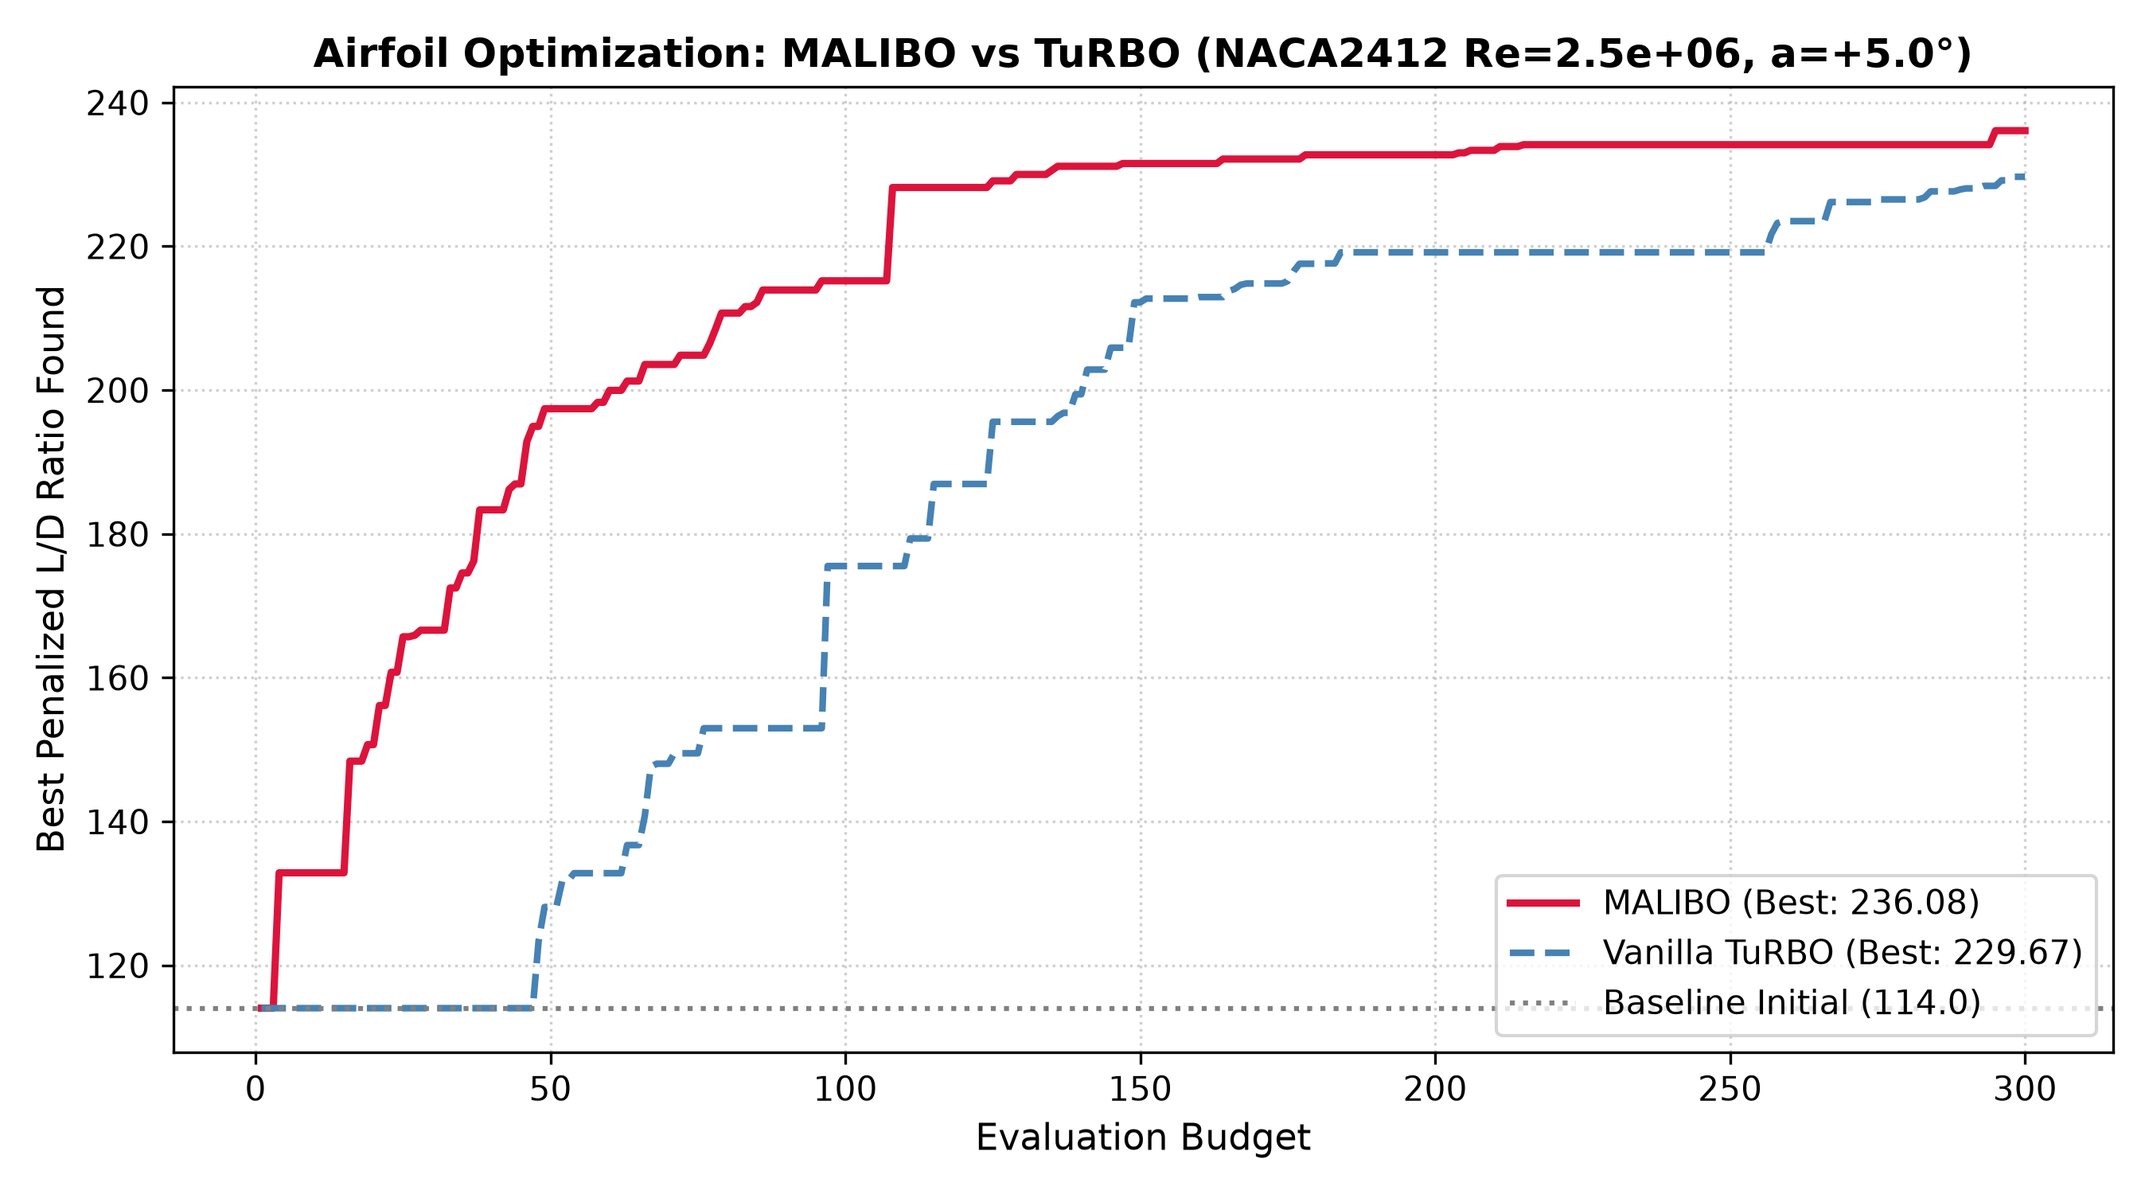
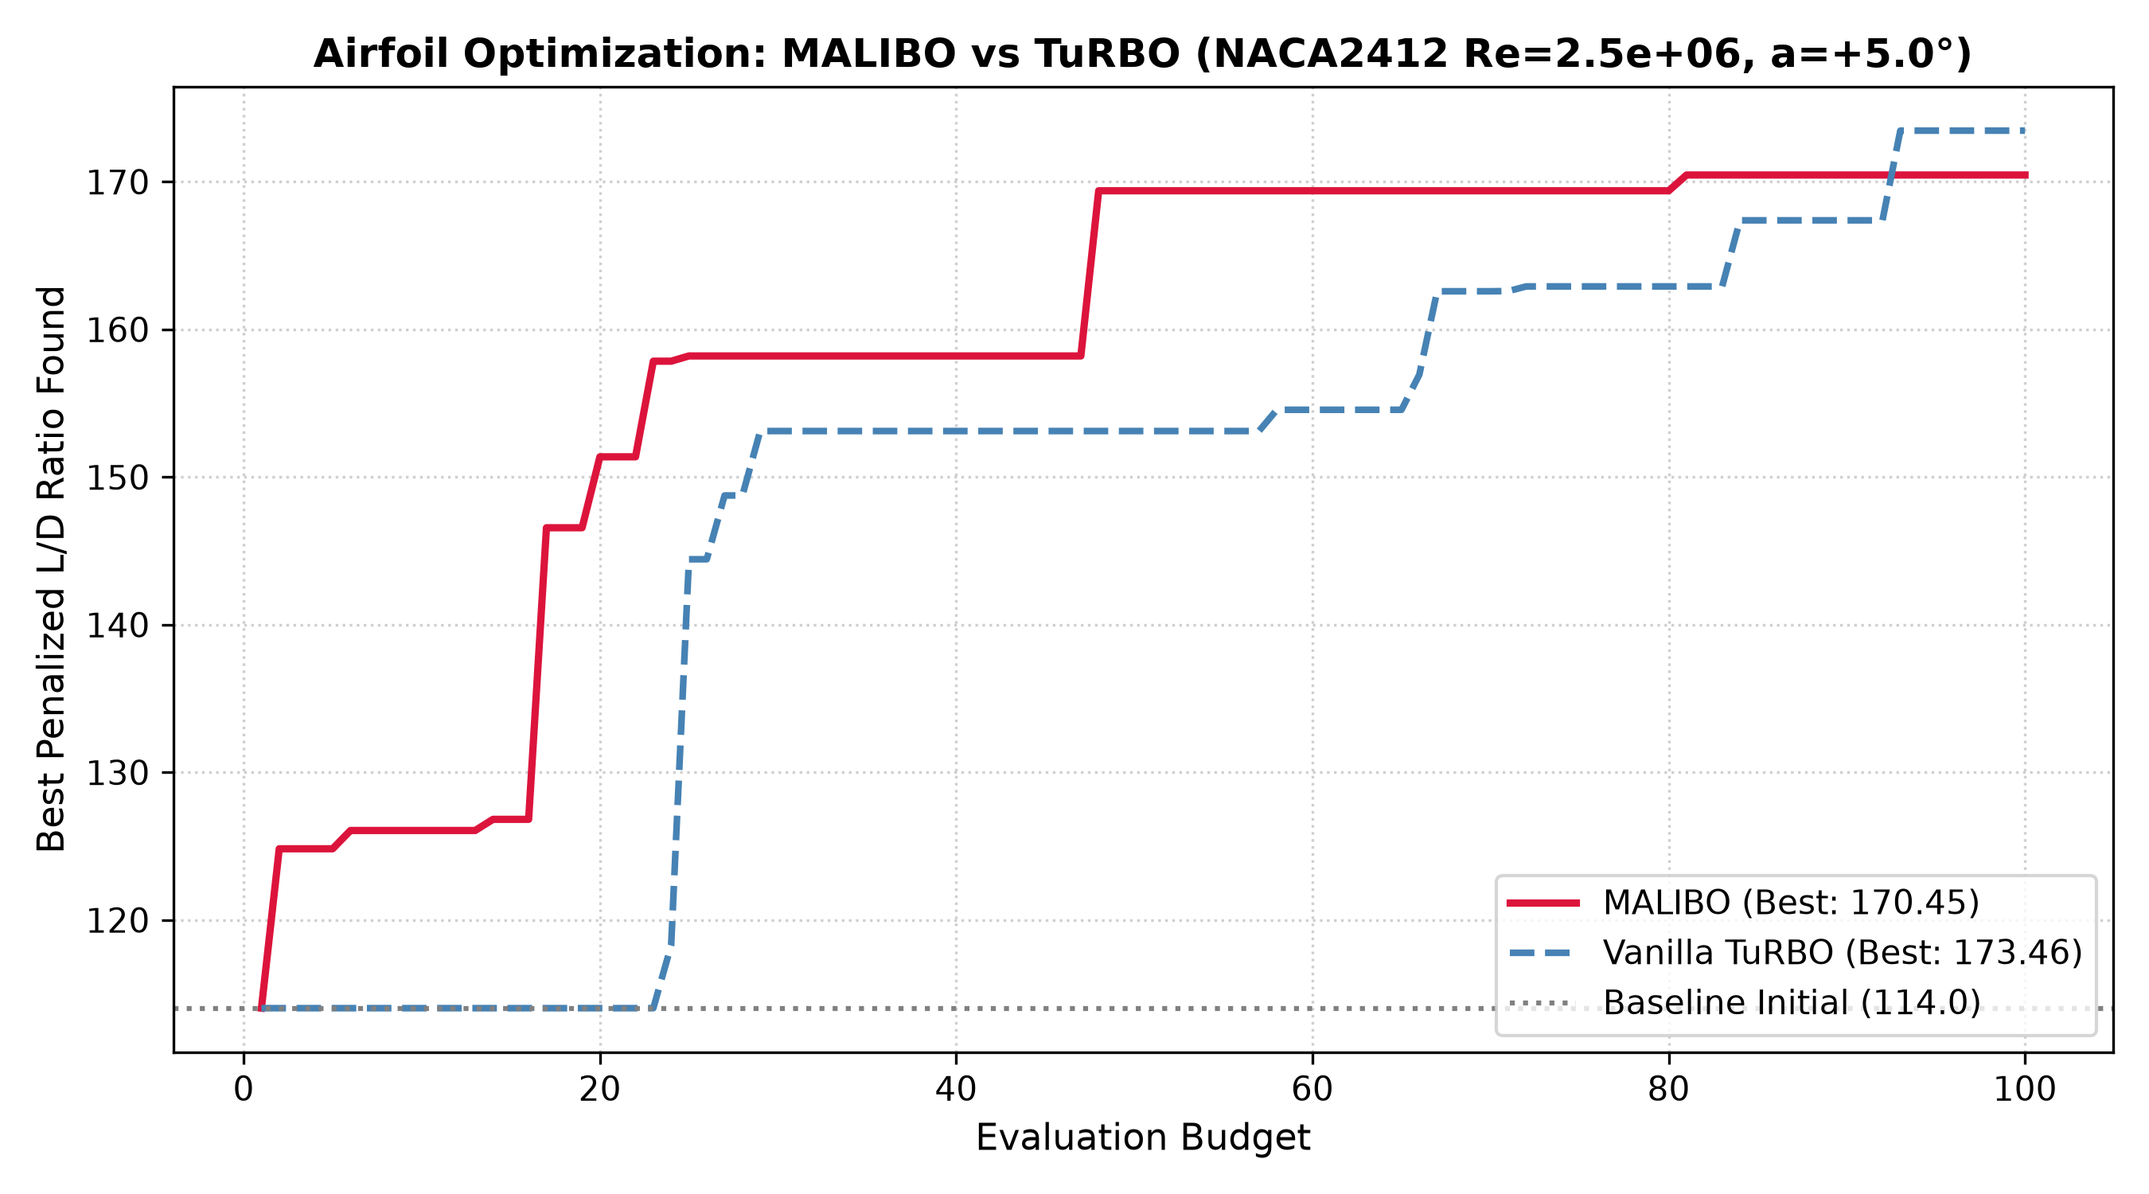
Audit fix: repair test_airfoil_bo & turbo GP jitter, refresh paper-exact malibo_vs_turbo.png and docs

diff --git a/turbo.py b/turbo.py
@@ -13,9 +13,12 @@ if hasattr(sys.stderr, "reconfigure"):
 
 import numpy as np
 import torch
+import gpytorch
 from botorch.fit import fit_gpytorch_mll
 from botorch.models import SingleTaskGP
+from gpytorch.constraints import GreaterThan
 from gpytorch.kernels import MaternKernel, ScaleKernel
+from gpytorch.likelihoods import GaussianLikelihood
 from gpytorch.mlls import ExactMarginalLogLikelihood
 from torch.quasirandom import SobolEngine
 
@@ -128,7 +131,8 @@ def generate_batch(
     X_cand[mask] = pert[mask]
 
     # 高性能 Thompson Sampling (支持 exploration_weight 调节采样不确定性)
-    with torch.no_grad():
+    model.eval()
+    with torch.no_grad(), gpytorch.settings.cholesky_jitter(1e-2):
         posterior = model.posterior(X_cand)
         mu = posterior.mean.squeeze(-1)
         sigma = posterior.variance.clamp_min(1e-9).sqrt().squeeze(-1)
@@ -264,30 +268,39 @@ def run_turbo_optimization(
             model = None
             restart_count += 1
 
-        # 归一化 Y
-        y_mean = Y_train.mean()
-        y_std = Y_train.std()
+        # 归一化 Y (截断极端不可行离群惩罚，避免拉崩 GP 核矩阵条件数)
+        Y_clean = torch.clamp(Y_train, min=0.0)
+        y_mean = Y_clean.mean()
+        y_std = Y_clean.std()
         if y_std < 1e-6:
-            norm_Y = Y_train - y_mean
+            norm_Y = Y_clean - y_mean
         else:
-            norm_Y = (Y_train - y_mean) / y_std
+            norm_Y = (Y_clean - y_mean) / y_std
 
         # 每 10 步或在重启/初始时拟合一次 GP 超参
         if (model is None) or (step_count % 10 == 0):
             covar_module = ScaleKernel(
                 MaternKernel(nu=2.5, ard_num_dims=dim, batch_shape=torch.Size([]))
             )
+            likelihood = GaussianLikelihood(noise_constraint=GreaterThan(1e-3))
             try:
-                model = SingleTaskGP(X_train, norm_Y, covar_module=covar_module)
+                model = SingleTaskGP(
+                    X_train, norm_Y, likelihood=likelihood, covar_module=covar_module
+                )
                 mll = ExactMarginalLogLikelihood(model.likelihood, model)
-                fit_gpytorch_mll(mll)
+                with gpytorch.settings.cholesky_jitter(1e-2):
+                    fit_gpytorch_mll(mll)
             except Exception:
-                model = SingleTaskGP(X_train, norm_Y, covar_module=covar_module)
+                model = SingleTaskGP(
+                    X_train, norm_Y, likelihood=GaussianLikelihood(noise_constraint=GreaterThan(1e-2))
+                )
         else:
             try:
                 model.set_train_data(X_train, norm_Y.squeeze(-1), strict=False)
             except Exception:
-                model = SingleTaskGP(X_train, norm_Y)
+                model = SingleTaskGP(
+                    X_train, norm_Y, likelihood=GaussianLikelihood(noise_constraint=GreaterThan(1e-2))
+                )
 
         # --- LLM 固定步数元优化干预 (在第 31, 51, 81, 121, 161 步触发，共 5 次) ---
         if is_meta and llm_agent is not None and (target_step in target_meta_steps_set):

diff --git a/malibo/test_airfoil_bo.py b/malibo/test_airfoil_bo.py
@@ -34,7 +34,7 @@ from malibo_dataset_generator.airfoil_baselines import (
     get_airfoil_bounds,
     get_airfoil_parameters,
 )
-from malibo_dataset_generator.vanilla_turbo import run_vanilla_turbo
+from turbo import run_turbo_optimization
 
 
 def main():
@@ -150,23 +150,27 @@ def main():
 
     # 4. 可选: 运行 Vanilla TuRBO 进行对比
     turbo_history = None
+    turbo_elapsed = 0.0
     if args.compare_turbo:
         print("\n--- [2/2] 运行 Vanilla TuRBO-1 作为基线对比 ---")
-        turbo_traj = run_vanilla_turbo(
-            evaluator_detailed_func=evaluator.evaluate_detailed,
+        t_turbo0 = time.time()
+        evaluator.reset_counter()
+        _calls, turbo_history, turbo_best_val, _best_theta = run_turbo_optimization(
+            objective_func=evaluator.evaluate,
             init_theta=init_theta,
             lb=lb,
             ub=ub,
-            airfoil_name=args.airfoil,
-            reynolds=args.reynolds,
-            alpha=args.alpha,
             max_evals=args.budget,
+            n_init=15,
             seed=args.seed,
-            device=device,
+            verbose_every=50,
+            is_meta=False,
+            airfoil_name=args.airfoil,
+            evaluator=evaluator,
         )
-        turbo_history = turbo_traj.best_y_history
+        turbo_elapsed = time.time() - t_turbo0
         print(
-            f"    - Vanilla TuRBO 最佳 L/D: {turbo_traj.best_fitness:.2f}, 耗时: {turbo_traj.elapsed_seconds:.1f}s"
+            f"    - Vanilla TuRBO 最佳 L/D: {turbo_best_val:.2f}, 耗时: {turbo_elapsed:.1f}s"
         )
 
     # 5. 总结对比结果
@@ -176,7 +180,7 @@ def main():
     print(f"    * MALIBO 最终最佳 L/D:   {malibo_res['best_y']:.2f} (Δ+{malibo_res['best_y'] - init_ld:.2f}) | 耗时: {malibo_res['elapsed_seconds']:.1f}s")
     if turbo_history is not None:
         turbo_best = float(turbo_history[-1])
-        print(f"    * Vanilla TuRBO 最佳 L/D: {turbo_best:.2f} (Δ+{turbo_best - init_ld:.2f}) | 耗时: {turbo_traj.elapsed_seconds:.1f}s")
+        print(f"    * Vanilla TuRBO 最佳 L/D: {turbo_best:.2f} (Δ+{turbo_best - init_ld:.2f}) | 耗时: {turbo_elapsed:.1f}s")
     print("=" * 85)
 
     # 6. 绘制收敛对比曲线

diff --git a/malibo/README.md b/malibo/README.md
@@ -10,12 +10,12 @@
 
 | 论文公式/章节 | 模块组件 | 数学逻辑与实现细节 |
 | :--- | :--- | :--- |
-| **Section 4 (Figure 2)** | [`models.py`](file:///home/msds/c250089/notebook/CFD/malibo/models.py) | **ResFFN 骨干与双重预测层**：4 个残差块（每块 64 单元，ELU 激活）映射原始参数至 $\Phi \in \mathbb{R}^{50}$；任务无关均值层 $m(\Phi) \to \mathbb{R}$；各任务嵌入向量 $z_t \in \mathbb{R}^{50}$，输出 Logit $a = m(\Phi) + z_t^T \Phi$。 |
-| **Eq. (2) & Eq. (6)** | [`losses.py`](file:///home/msds/c250089/notebook/CFD/malibo/losses.py) | **LFBO 效用加权损失**：基于分位数 $\gamma=1/3$ 划分阈值 $\tau$。推导使用软间隔连续形式：$\mathcal{L} = w \cdot \text{softplus}(-a) + \text{softplus}(a)$，彻底杜绝 $\log(0)$、NaN 与除零错误。 |
-| **Eq. (4) & Appendix C** | [`losses.py`](file:///home/msds/c250089/notebook/repos/Meta-CFD/malibo/losses.py) | **潜在任务空间高斯正则化器 $R(Z)$**：基于顺序统计量排序的精确非参数 Kolmogorov-Smirnov (KS) 边际 CDF 匹配与经验协方差对齐，通过多次先验采样估算 $\lambda_{KS}$ 与 $\lambda_{Cov}$，将 $z_t$ 精确约束至 $\mathcal{N}(0, I_{50})$。 |
-| **Eq. (6) ~ Eq. (9)** | [`adaptation.py`](file:///home/msds/c250089/notebook/repos/Meta-CFD/malibo/adaptation.py) | **任务自适应与 Laplace 近似**：固定特征网络，在标准化目标观测上通过 L-BFGS（`strong_wolfe`）求解 $z_{MAP}$；计算精确负 Hessian 精度矩阵 $\Sigma_N^{-1}$ 并做 Cholesky 分解，按固定 $\gamma=1/3$ 抽取纯净 Thompson 样本 $\hat{z} \sim \mathcal{N}(z_{MAP}, \Sigma_N)$（无人工方差地板）。 |
-| **Eq. (10) & Appendix G** | [`residual_booster.py`](file:///home/msds/c250089/notebook/repos/Meta-CFD/malibo/residual_booster.py) | **决策树残差梯度提升 (GBDT)**：以 Meta-Model 的 Thompson 采样为基分类器（`InitEstimator`），按 LFBO 双标签等价加权格式在 70% 训练 / 30% 验证切分上早停选择最优树数（含 0 棵树基线），构建残差修正 $C_{GB}(x) = \sigma(m(\phi(x)) + \hat{z}^T \phi(x) + \sum r_i(x))$。 |
-| **Algorithm 1** | [`optimizer.py`](file:///home/msds/c250089/notebook/repos/Meta-CFD/malibo/optimizer.py) | **严格原论文版全局贝叶斯元优化闭环**：彻底移除信赖域、稀疏坐标掩码与几何预筛器；严格按 Appendix G 在完整 $[0,1]^D$ 空间执行 5,120 点全局均匀随机搜索极大化 $C_{GB}(x;\hat{z})$。 |
+| **Section 4 (Figure 2)** | [`models.py`](models.py) | **ResFFN 骨干与双重预测层**：4 个残差块（每块 64 单元，ELU 激活）映射原始参数至 $\Phi \in \mathbb{R}^{50}$；任务无关均值层 $m(\Phi) \to \mathbb{R}$；各任务嵌入向量 $z_t \in \mathbb{R}^{50}$，输出 Logit $a = m(\Phi) + z_t^T \Phi$。 |
+| **Eq. (2) & Eq. (6)** | [`losses.py`](losses.py) | **LFBO 效用加权损失**：基于分位数 $\gamma=1/3$ 划分阈值 $\tau$。推导使用软间隔连续形式：$\mathcal{L} = w \cdot \text{softplus}(-a) + \text{softplus}(a)$，彻底杜绝 $\log(0)$、NaN 与除零错误。 |
+| **Eq. (4) & Appendix C** | [`losses.py`](losses.py) | **潜在任务空间高斯正则化器 $R(Z)$**：基于顺序统计量排序的精确非参数 Kolmogorov-Smirnov (KS) 边际 CDF 匹配与经验协方差对齐，通过多次先验采样估算 $\lambda_{KS}$ 与 $\lambda_{Cov}$，将 $z_t$ 精确约束至 $\mathcal{N}(0, I_{50})$。 |
+| **Eq. (6) ~ Eq. (9)** | [`adaptation.py`](adaptation.py) | **任务自适应与 Laplace 近似**：固定特征网络，在标准化目标观测上通过 L-BFGS（`strong_wolfe`）求解 $z_{MAP}$；计算精确负 Hessian 精度矩阵 $\Sigma_N^{-1}$ 并做 Cholesky 分解，按固定 $\gamma=1/3$ 抽取纯净 Thompson 样本 $\hat{z} \sim \mathcal{N}(z_{MAP}, \Sigma_N)$（无人工方差地板）。 |
+| **Eq. (10) & Appendix G** | [`residual_booster.py`](residual_booster.py) | **决策树残差梯度提升 (GBDT)**：以 Meta-Model 的 Thompson 采样为基分类器（`InitEstimator`），按 LFBO 双标签等价加权格式在 70% 训练 / 30% 验证切分上早停选择最优树数（含 0 棵树基线），构建残差修正 $C_{GB}(x) = \sigma(m(\phi(x)) + \hat{z}^T \phi(x) + \sum r_i(x))$。 |
+| **Algorithm 1** | [`optimizer.py`](optimizer.py) | **严格原论文版全局贝叶斯元优化闭环**：彻底移除信赖域、稀疏坐标掩码与几何预筛器；严格按 Appendix G 在完整 $[0,1]^D$ 空间执行 5,120 点全局均匀随机搜索极大化 $C_{GB}(x;\hat{z})$。 |
 
 ---
 
@@ -41,7 +41,7 @@ malibo/
 ## 三、 使用指南
 
 ### 1. 训练 MALIBO 元神经网络
-使用此前生成的 87,500 条完整气动数据集进行全量元训练（在 L40S GPU 上训练极其迅速）：
+使用 `malibo_dataset_generator` 生成的 250 任务 $\times$ 300 步 = 75,000 条多工况完整气动数据集进行全量元训练（80/20 任务内验证切分早停，L40S GPU 训练仅需约 1 分钟）：
 
 ```bash
 # 全量训练 2048 轮 (带早停，权重自动保存至 malibo/malibo_checkpoint.pt)

diff --git a/malibo_dataset_generator/README.md b/malibo_dataset_generator/README.md
@@ -15,17 +15,16 @@
 | :--- | :--- | :--- | :--- | :--- |
 | **`NACA 0012`** | 纯对称翼型 (Symmetric) | 12.0% | 0.0% (零弯度) | 直升机旋翼、导弹舵面、平尾垂尾。上下完全对称，正负攻角流动对称。 |
 | **`NACA 2412`** | 经典通航巡航型 (Conventional GA) | 12.0% | 1.9% (适度弯度) | Cessna 172、经典民用轻型机。巡航阻力桶宽广，失速平缓温和。 |
-| **`NACA 6412`** | 大弯度高升力型 (High Camber) | 12.0% | 5.8% (大深弯度) | STOL 短距起降机、高空长航时无人机。极高 $C_{L0} \approx 0.7$，低速大升力。 |
-| **`NACA 2418`** | 大厚度强结构型 (Thick Structural) | 18.0% | 1.8% | 大型民航内侧翼根段、风电叶根。容积与刚度大，逆压梯度剧烈。 |
+| **`NACA 4412`** | 较大弯度高升力型 (High Camber) | 12.0% | 4.0% | 高升力巡航与无人机翼型，高 $C_{L0}$ 与平缓失速特性。 |
+| **`NACA 2415`** | 较厚结构型 (Thick Structural) | 15.0% | 2.0% | 中厚结构段翼型，兼顾翼梁抗弯刚度与良好气动效率。 |
 | **`b737b`** | 现代喷气客机跨音速/后加载型 | 12.7% | 0.8% | 波音 737 干线客机真实中段翼型。平坦吸力面延缓激波，典型后加载修形。 |
 
-### 2. 工况取值策略 (雷诺数与攻角)
-- **雷诺数 ($Re \in [10^4, 10^8]$, 跨越 4 个量级)**：
-  - 采用**常用对数均匀尺度 ($\log_{10} Re \in [4.0, 8.0]$)**；
-  - 默认 5 级基准分布：$1.0\times 10^4$ (超低Re昆虫/微型翼), $1.0\times 10^5$ (低Re航模分离泡), $1.0\times 10^6$ (中Re通用通航), $1.0\times 10^7$ (高Re喷气民航), $1.0\times 10^8$ (超高Re巨型运输机/风电)。
-- **攻角 ($\alpha \in [-3.0^\circ, 15.0^\circ]$)**：
-  - 采用**巡航核心区间自适应加密策略**；
-  - 默认 7 级基准分布：$-3.0^\circ$ (俯冲边界), $0.0^\circ$ (平飞基准), $2.5^\circ, 5.0^\circ, 7.5^\circ$ (巡航主战场加密), $11.0^\circ$ (机动爬升过渡), $15.0^\circ$ (近失速/强分离边界)。
+### 2. 工况取值策略 (雷诺数与攻角，严格排除测试点)
+- **雷诺数 ($Re \in [10^6, 10^7]$)**：10 级均匀分布 $\{1, 2, 3, 4, 5, 6, 7, 8, 9, 10\} \times 10^6$（严格排除测试点 $Re = 3.5 \times 10^6$）。
+- **攻角 ($\alpha \in [0^\circ, 10^\circ]$)**：
+  - `compact` 紧凑巡航模式（当前主训练集）：5 级 $\{0.0^\circ, 2.5^\circ, 5.0^\circ, 7.5^\circ, 10.0^\circ\}$，共 $5 \times 10 \times 5 = \mathbf{250}$ 任务 $\times$ 300 步 = **75,000 样本**（严格排除测试点 $\alpha = 3.5^\circ$）。
+  - `grid` 全网格模式：11 级 $\{0^\circ, 1^\circ, \dots, 10^\circ\}$，共 $5 \times 10 \times 11 = 550$ 任务。
+- **搜索盒对齐**：所有任务严格共享与 `RL-Airfoil` 比特级一致的 18 维统一 Kulfan CST 参数上下界。
 
 ### 3. 评估与寻优配置
 - **CFD 评估器**：`NeuralFoil ('xxxlarge')`，配合 10 项航空工业级几何约束与平滑有界主导惩罚。
@@ -64,15 +63,14 @@ malibo_dataset_generator/
 python -m malibo_dataset_generator.run_generation --mode quick_test --workers 4
 ```
 
-### 2. 生成标准全量训练集 (175 任务 x 300 步 = 52,500 条数据)
+### 2. 生成标准全量训练集 (550 任务 x 300 步 = 165,000 条数据)
 ```bash
-# 采用 8 个工作进程并发 (总耗时仅约 2~3 分钟，极速生成)
-python -m malibo_dataset_generator.run_generation --mode grid --workers 8 --max-evals 300
+python -m malibo_dataset_generator.run_generation --mode grid --workers 10 --max-evals 300
 ```
 
-### 3. 生成紧凑巡航训练集 (125 任务 x 300 步 = 37,500 条数据)
+### 3. 生成主巡航训练集 (250 任务 x 300 步 = 75,000 条数据，当前 checkpoint 对应)
 ```bash
-python -m malibo_dataset_generator.run_generation --mode compact --workers 8 --max-evals 300
+python -m malibo_dataset_generator.run_generation --mode compact --workers 10 --max-evals 300
 ```
 
 ### 4. 连续空间填充采样 (指定 T 个连续任务)
@@ -90,7 +88,7 @@ python -m malibo_dataset_generator.run_generation --mode sobol --num-tasks 100 -
 from malibo_dataset_generator.malibo_torch_dataset import MALIBOMetaDataset
 from torch.utils.data import DataLoader
 
-# 方式 1: 直接加载打包好的 .pt 文件 (秒级加载 87,500 条数据)
+# 方式 1: 直接加载打包好的 .pt 文件 (秒级加载 75,000 条数据)
 dataset = MALIBOMetaDataset(bundled_pt_path="malibo_dataset_generator/data/malibo_train_dataset.pt")
 
 print(f"任务总数 T: {dataset.num_tasks}, 样本总数 N: {dataset.total_samples}")

diff --git a/README.md b/README.md
@@ -1,1 +1,26 @@
-现有设置下，一次LLM决策需要30s多的时间
+# Meta-CFD: 2D Airfoil Aerodynamic Evaluator & Paper-Exact MALIBO Framework
+
+本仓库提供面向 2D 翼型（18 维 Kulfan CST 参数化）的工业级几何/气动评估器、离线多工况元学习轨迹生成管道，以及**严格对齐原论文 Pan et al. (ICML 2024, `MALIBO.pdf`) 的无似然元贝叶斯优化（MALIBO）核心实现**（供 `RL-Airfoil` 与本仓库测试直接复用）。
+
+## 核心模块
+
+- `evaluator.py` & `test_constraints.py`：基于 `AeroSandbox` + `NeuralFoil ('xxxlarge')` 的 10 项工业级强约束翼型评估器（最大厚度 `[8%, 20%]`、结构梁最小厚度、后缘防鱼尾单调收缩、前缘钝度半径、后缘楔角、截面面积、抗波纹凸性、俯仰力矩 $C_M \ge -0.25$）及 5 项约束单元测试。
+- `malibo/`（详见 [malibo/README.md](malibo/README.md)）：严格忠实于 Pan et al. (ICML 2024) 原文的 MALIBO 核心实现——`4×64` ResFFN（ELU, $d=50$）、精确 Eq. (2) LFBO 效用损失、精确非参数排序 KS + 协方差匹配高斯先验正则（元训练后 $z_t$ 收敛至 $\mathrm{std}=0.9980, |\mathrm{mean}|=0.0029$）、L-BFGS 拉普拉斯汤普森采样（固定 $\gamma=1/3$）、70/30 早停双标签残差 GBDT 及原论文 Appendix G 规定的全局 5,120 点均匀随机搜索（无信赖域、无稀疏坐标掩码、无免费几何预筛器）。
+- `malibo_dataset_generator/`（详见 [malibo_dataset_generator/README.md](malibo_dataset_generator/README.md)）：基于 18 维统一 Kulfan 搜索盒（与 `RL-Airfoil` 严格对齐）及多进程 CMA-ES（`spawn` 模式）的离线多任务数据集生成器，已构建 **250 任务 $\times$ 300 步 = 75,000 样本**元训练集（5 翼型 $\times$ 10 雷诺数 $\times$ 5 攻角，严格排除测试工况 $Re=3.5\times 10^6, \alpha=3.5^\circ$）。
+- `turbo.py`, `llm_agent.py`, `run.py`, `main.py`：早期 BoTorch TuRBO-1 与 SGLang LLM 交互原型脚本（主论文 10 种子全量 2D 基准测试详见 `RL-Airfoil/` 仓库）。
+
+## 快速验证与复现
+
+```bash
+# 1. 运行 5 项工业级几何约束单元测试
+python test_constraints.py
+
+# 2. 重新生成 250 任务 x 300 步 (75,000 样本) 元训练集
+python -m malibo_dataset_generator.run_generation --mode compact --workers 10 --max-evals 300
+
+# 3. 训练严格原论文对齐版 MALIBO 权重 (2048 epochs + 80/20 早停)
+python -m malibo.train_malibo --dataset malibo_dataset_generator/data/malibo_train_dataset.pt
+
+# 4. 在未见测试工况下运行 MALIBO vs Vanilla TuRBO 对比测试
+python -m malibo.test_airfoil_bo --airfoil naca2412 --reynolds 2.5e6 --alpha 5.0 --budget 100 --compare-turbo
+```
